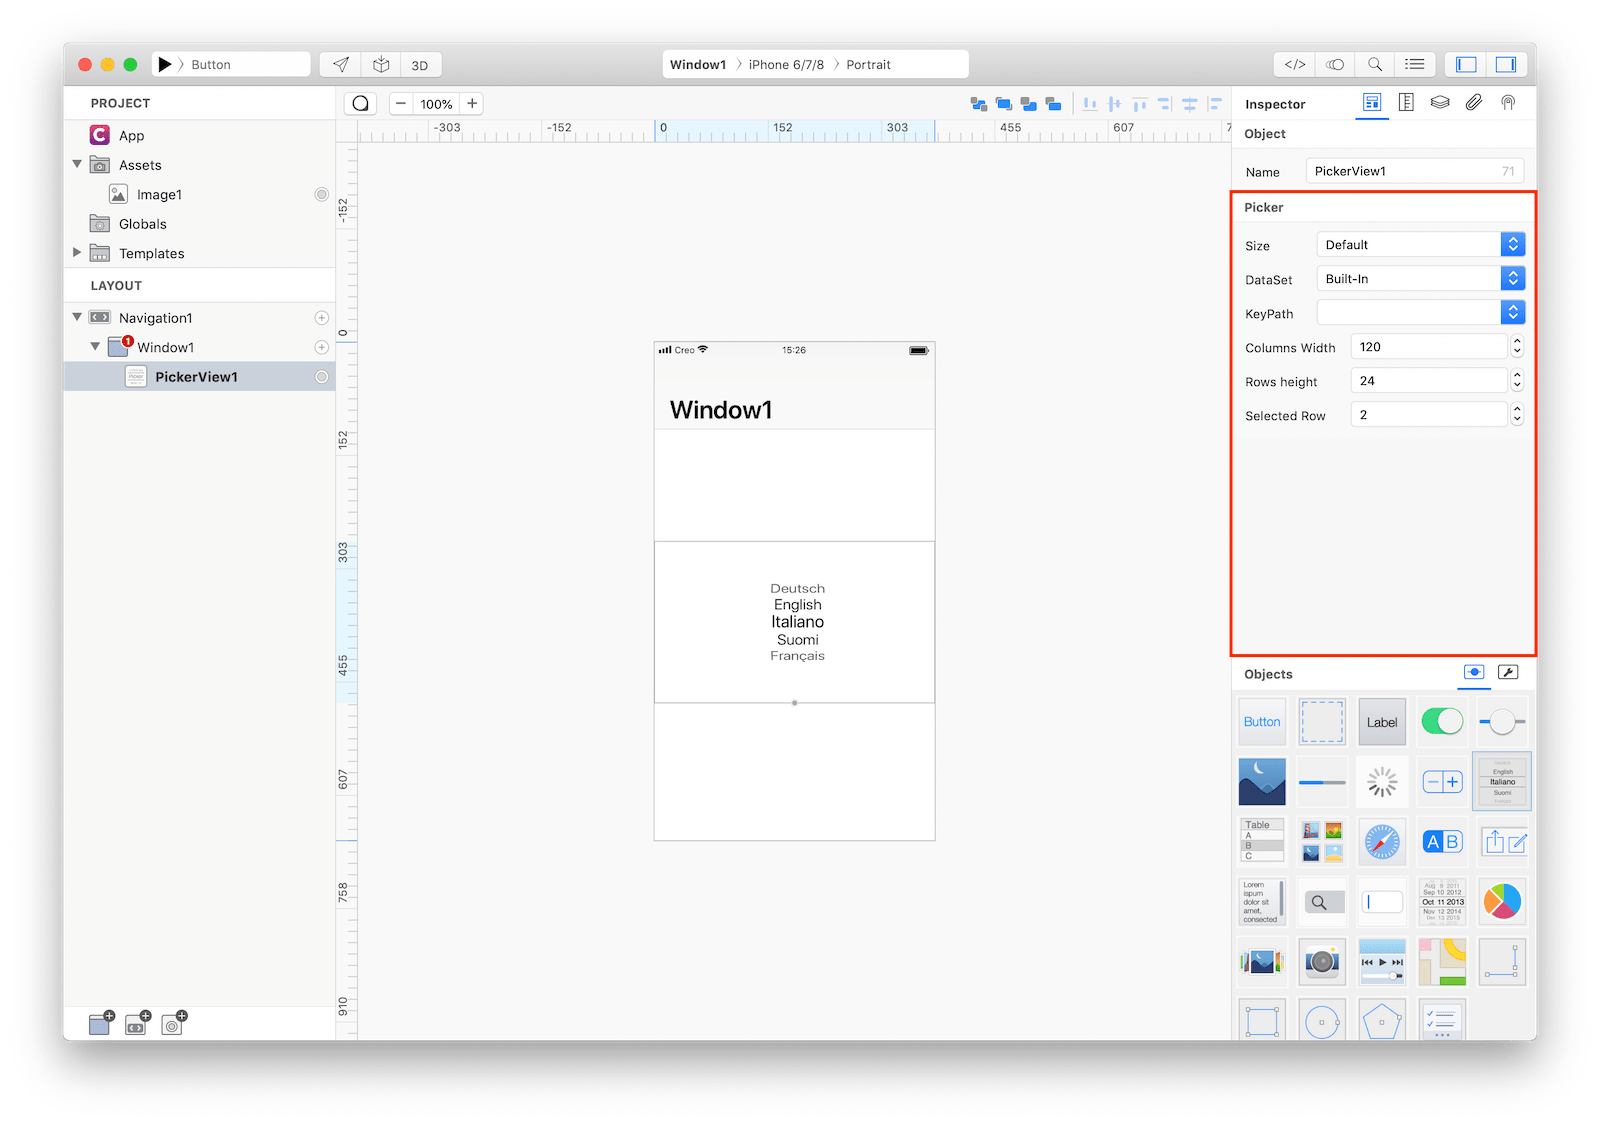
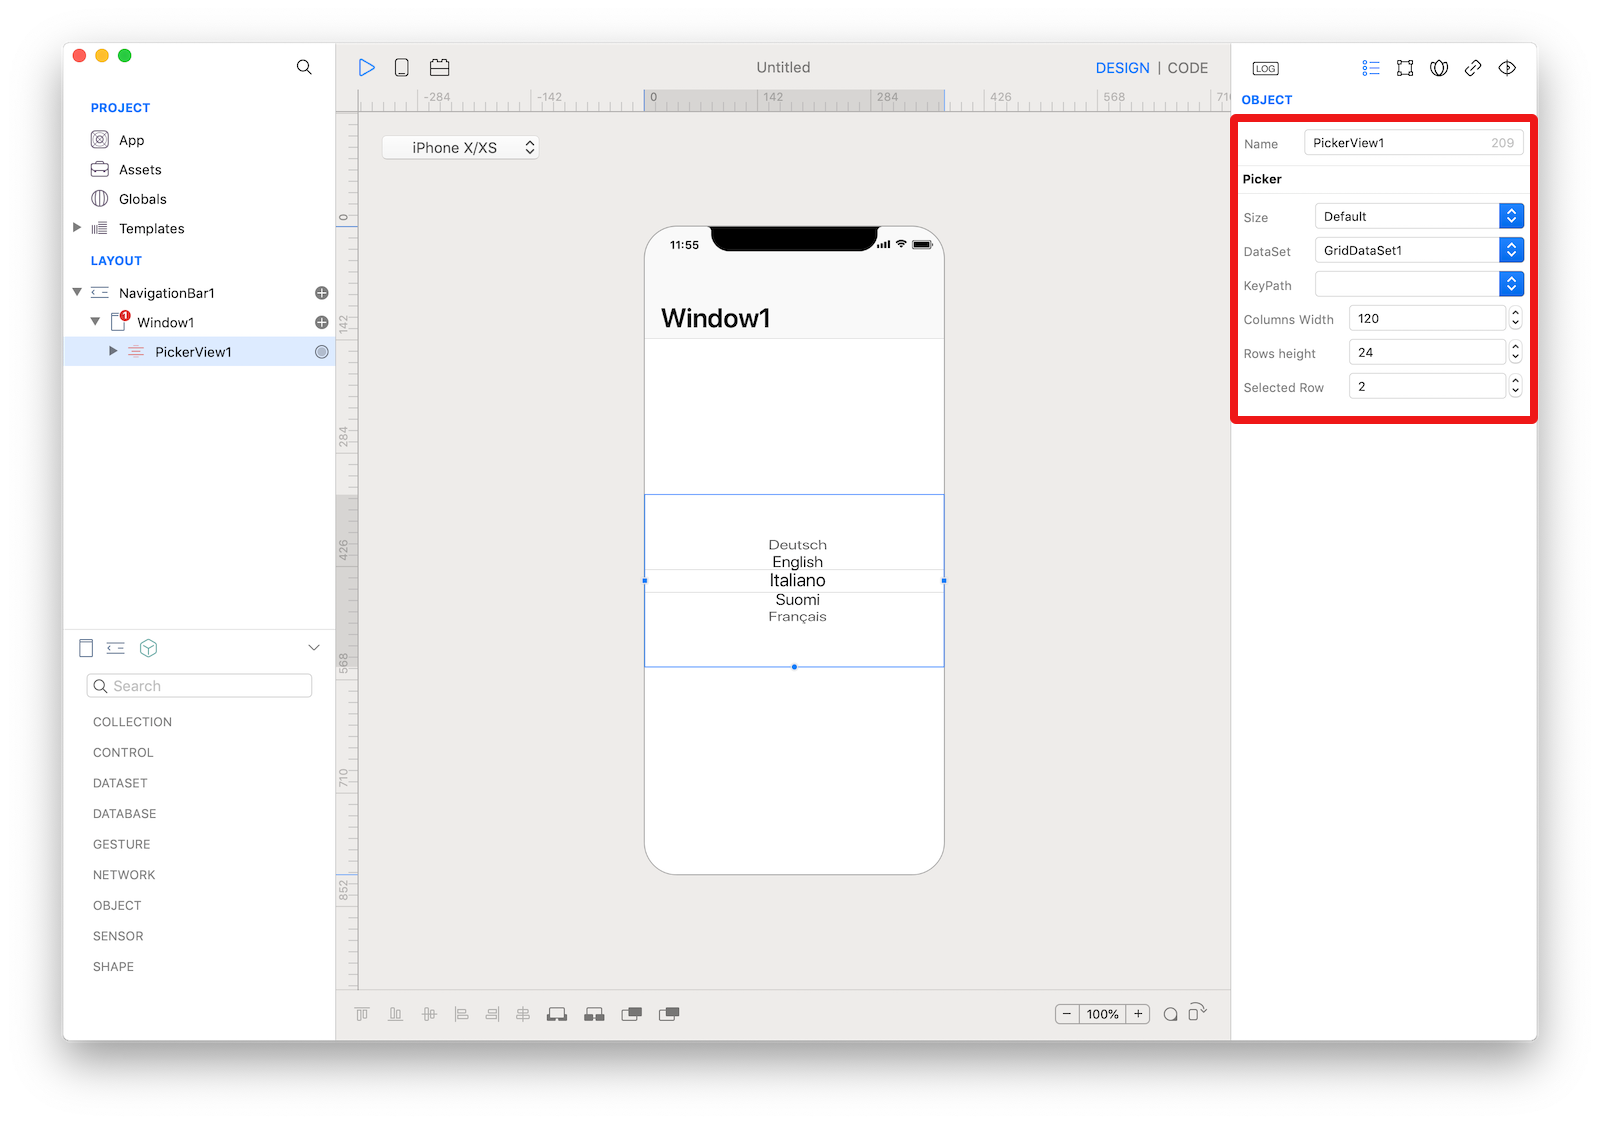
Updated PickerView for Creo2

diff --git a/docs/creo/PickerView.md b/docs/creo/PickerView.md
@@ -1,6 +1,6 @@
 A picker includes one or more scrollable lists of distinct values, each of which has a single selected value—appearing in darker text in the center of the view. A picker is often displayed at the bottom of the screen or in a popover when the user is editing a field or tapping a menu. Pickers can also appear inline, such as while editing a date in a Calendar event. The height of a picker is roughly the height of five rows of list values. The width of a picker is either the width of the screen or its enclosing view, depending on the device and context.
 
-![PickerView](../images/creo/pickerview1.png)
+![PickerView](../images/creo2/pickerview1.png)
 
 ### Best practices
 * **Use predictable and logically ordered values.** Many values in a picker may be hidden when the scrollable lists are stationary. It's best when people can predict what these values are, such as with a list of alphabetized countries, so they can move through the lists quickly.
@@ -13,14 +13,14 @@ A picker includes one or more scrollable lists of distinct values, each of which
 
 If you need to write code for PickerView:
 
-3. Open the `Code Editor` (cmd + 6)
+3. Open the `Code Editor`
 4. Select the `DidSelectCell` item inside the `Events` area and write your custom code in the `Code Editor`
 
-![`PickerView` inspector](../images/creo/pickerview2.png)
+![`PickerView` inspector](../images/creo2/pickerview2.png)
 The inspector where the `PickerView` class can be configured.
 
 ### Example
-1. Open the `Code Editor` (cmd + 6)
+1. Open the `Code Editor`
 2. Select the `Changed` item inside the `Events` area and write your custom code in the `Code Editor`
 ```
 Console.write("PickerView Column: \(column) Row: \(row)")
